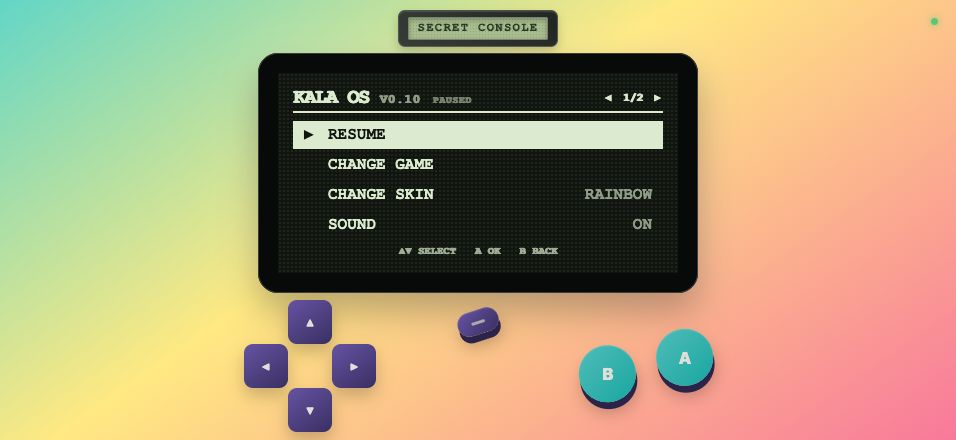
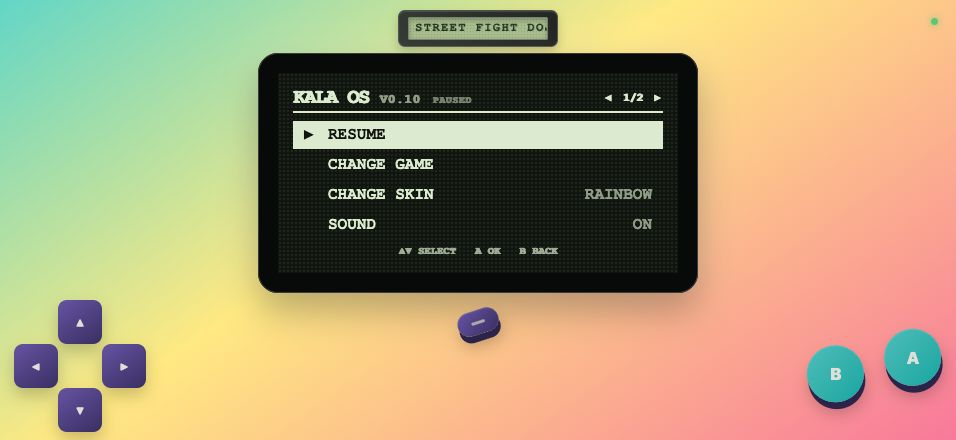
Spread landscape controls across device width

diff --git a/src/styles.css b/src/styles.css
@@ -196,10 +196,12 @@ button { font: inherit; }
 
 @media (orientation: landscape) and (max-height: 700px) {
   .handheld { padding-block: max(env(safe-area-inset-top), 8px) max(env(safe-area-inset-bottom), 8px); }
-  .console-body { grid-template-rows: minmax(0, 1fr) auto; gap: 6px; width: min(100%, 700px); }
+  .console-body { grid-template-rows: minmax(0, 1fr) auto; gap: 6px; width: min(100%, 980px); }
   .display-stack { width: min(100%, 440px); }
   .title-display { margin-bottom: 6px; }
-  .controls { --dpad-size: min(10vh, 44px); grid-template-columns: 1fr 52px 1fr; width: min(100%, 620px); margin: auto; }
+  .controls { --dpad-size: min(10vh, 44px); grid-template-columns: 1fr 52px 1fr; width: 100%; margin: auto; }
+  .dpad { justify-self: start; }
+  .action-buttons { justify-self: end; }
   .action-buttons button { width: min(13vh, 58px); height: min(13vh, 58px); }
   .brand-mark { display: none; }
 }
